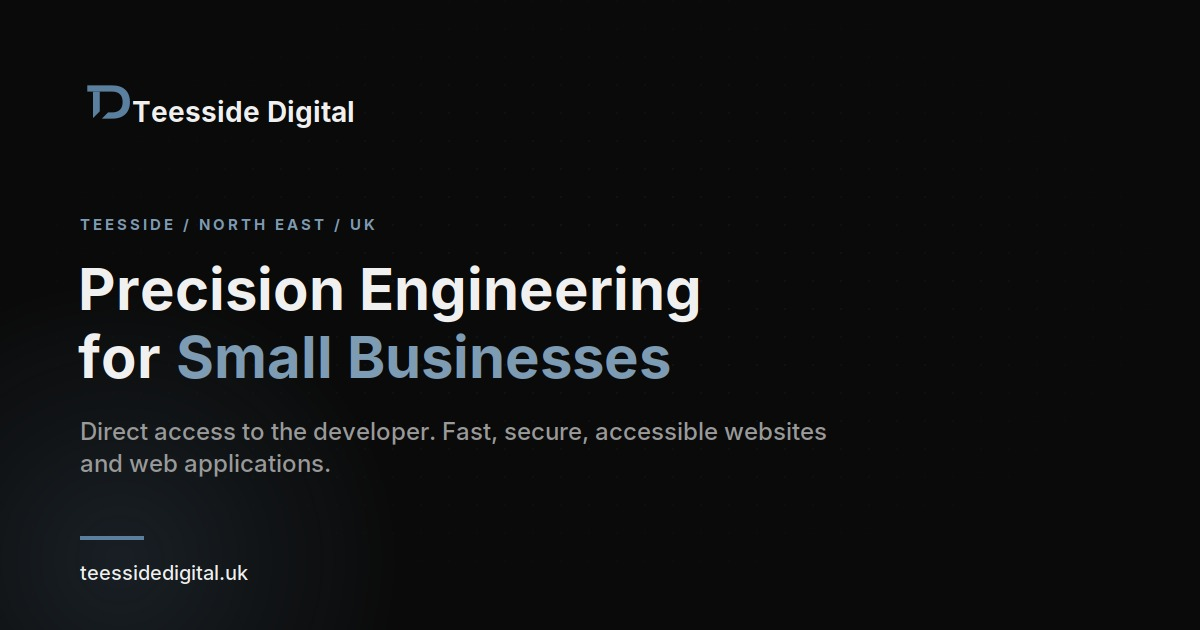
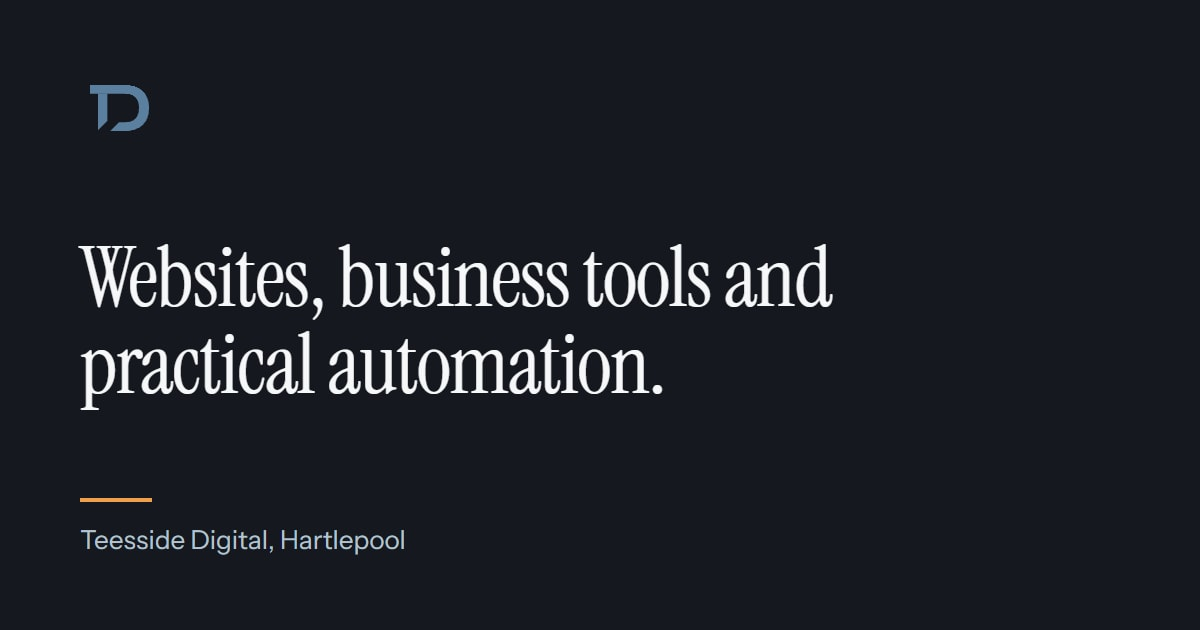
fix: consistent trailing slashes and SEO metadata

diff --git a/src/lib/seo.ts b/src/lib/seo.ts
@@ -1,232 +1,44 @@
 /**
- * SEO Helpers
- * Centralised functions for meta tags, structured data, and Open Graph generation
+ * SEO helpers: page title, canonical URL, social image and the one structured
+ * data block the site publishes.
  */
 
-import { SITE } from '@config/constants';
+import { SITE } from "@config/constants";
 
-export interface SEOProps {
-  title: string;
-  description: string;
-  image?: string;
-  imageAlt?: string;
-  canonical?: string;
-  article?: {
-    publishedTime?: string;
-    modifiedTime?: string;
-    author?: string;
-  };
-  robots?: string;
-}
-
-/**
- * Generate meta title (appends site name)
- */
+/** Append the site name, unless the title already carries it. */
 export function getPageTitle(title: string): string {
-  if (title.includes('|')) {
-    return title; // Already formatted
-  }
-  return title === SITE.title ? title : `${title} | ${SITE.title}`;
+  if (title.includes("|") || title.startsWith(SITE.title)) return title;
+  return `${title} | ${SITE.title}`;
 }
 
-/**
- * Generate canonical URL
- */
+/** Absolute URL for a site path. Paths end in a slash, as every route does. */
 export function getCanonicalUrl(path: string): string {
   return `${SITE.url}${path}`;
 }
 
-/**
- * Generate Open Graph image URL (full URL required)
- */
+/** Absolute URL of the social image. Every page shares the one image. */
 export function getOgImageUrl(image?: string): string {
-  if (!image) {
-    return `${SITE.url}/images/og-default.jpg`;
-  }
-  if (image.startsWith('http')) {
-    return image;
-  }
-  return `${SITE.url}${image}`;
+  if (!image) return `${SITE.url}/images/og-default.jpg`;
+  return image.startsWith("http") ? image : `${SITE.url}${image}`;
 }
 
 /**
- * Structured Data: Organisation (for homepage)
- * Used for Google Knowledge Panel and rich snippets
+ * Structured data: Organization. Facts only. Add a profile to sameAs once its
+ * address is confirmed.
  */
 export function getOrganisationSchema() {
   return {
-    '@context': 'https://schema.org',
-    '@type': 'Organization',
+    "@context": "https://schema.org",
+    "@type": "Organization",
     name: SITE.title,
-    url: SITE.url,
-    logo: `${SITE.url}/images/logo.svg`,
+    url: `${SITE.url}/`,
+    logo: `${SITE.url}/images/logo/teesside-digital-logo.svg`,
     description: SITE.description,
     founder: {
-      '@type': 'Person',
-      name: 'Dave',
+      "@type": "Person",
+      name: "Dave",
     },
-    contactPoint: {
-      '@type': 'ContactPoint',
-      contactType: 'Sales',
-      telephone: '', // Add if available
-      email: SITE.email,
-    },
-    sameAs: [
-      'https://github.com/TeessideDigital',
-      'https://linkedin.com/company/teessidedigital',
-    ],
-  };
-}
-
-/**
- * Structured Data: LocalBusiness (for local SEO)
- * Helps Google understand your service area
- */
-export function getLocalBusinessSchema() {
-  return {
-    '@context': 'https://schema.org',
-    '@type': 'LocalBusiness',
-    name: SITE.title,
-    image: `${SITE.url}/images/logo.svg`,
-    description: SITE.description,
-    url: SITE.url,
-    telephone: '', // Add if available
     email: SITE.email,
-    address: {
-      '@type': 'PostalAddress',
-      addressLocality: 'Hartlepool',
-      addressRegion: 'England',
-      addressCountry: 'GB',
-    },
-    areaServed: [
-      {
-        '@type': 'City',
-        name: 'Hartlepool',
-      },
-      {
-        '@type': 'City',
-        name: 'Middlesbrough',
-      },
-      {
-        '@type': 'City',
-        name: 'Stockton-on-Tees',
-      },
-      {
-        '@type': 'Region',
-        name: 'North East England',
-      },
-      {
-        '@type': 'Country',
-        name: 'United Kingdom',
-      },
-    ],
-    sameAs: [
-      'https://github.com/TeessideDigital',
-      'https://linkedin.com/company/teessidedigital',
-    ],
-  };
-}
-
-/**
- * Structured Data: Service
- * Used on service detail pages
- */
-export function getServiceSchema(service: {
-  name: string;
-  description: string;
-  image: string;
-  url: string;
-}) {
-  return {
-    '@context': 'https://schema.org',
-    '@type': 'Service',
-    name: service.name,
-    description: service.description,
-    image: getOgImageUrl(service.image),
-    provider: {
-      '@type': 'Organization',
-      name: SITE.title,
-      url: SITE.url,
-    },
-    url: getCanonicalUrl(service.url),
-    areaServed: {
-      '@type': 'GeoShape',
-      name: 'United Kingdom',
-    },
-  };
-}
-
-/**
- * Structured Data: BreadcrumbList
- * Improves navigation clarity and SEO
- */
-export function getBreadcrumbSchema(items: Array<{ name: string; url: string }>) {
-  return {
-    '@context': 'https://schema.org',
-    '@type': 'BreadcrumbList',
-    itemListElement: items.map((item, index) => ({
-      '@type': 'ListItem',
-      position: index + 1,
-      name: item.name,
-      item: getCanonicalUrl(item.url),
-    })),
-  };
-}
-
-/**
- * Structured Data: Article / BlogPosting
- * Used on case study pages
- */
-export function getArticleSchema(article: {
-  title: string;
-  description: string;
-  image?: string;
-  datePublished: string;
-  dateModified?: string;
-  author?: string;
-  url: string;
-}) {
-  return {
-    '@context': 'https://schema.org',
-    '@type': 'Article',
-    headline: article.title,
-    description: article.description,
-    image: getOgImageUrl(article.image),
-    datePublished: article.datePublished,
-    dateModified: article.dateModified || article.datePublished,
-    author: {
-      '@type': 'Organization',
-      name: article.author || SITE.title,
-    },
-    publisher: {
-      '@type': 'Organization',
-      name: SITE.title,
-      logo: {
-        '@type': 'ImageObject',
-        url: `${SITE.url}/images/logo.svg`,
-      },
-    },
-    url: getCanonicalUrl(article.url),
-  };
-}
-
-/**
- * Sanitise text for meta descriptions
- * Removes HTML, trims to 160 characters
- */
-export function sanitiseDescription(text: string, maxLength = 160): string {
-  const stripped = text.replace(/<[^>]*>/g, '').replace(/\s+/g, ' ').trim();
-  return stripped.length > maxLength ? `${stripped.substring(0, maxLength)}...` : stripped;
-}
-
-/**
- * Generate Twitter Card meta tags
- */
-export function getTwitterCard(props: SEOProps) {
-  return {
-    'twitter:card': 'summary_large_image',
-    'twitter:title': props.title,
-    'twitter:description': props.description,
-    'twitter:image': getOgImageUrl(props.image),
+    sameAs: ["https://github.com/TeessideDigital"],
   };
 }

diff --git a/tools/social-image/index.html b/tools/social-image/index.html
@@ -1,0 +1,74 @@
+<!doctype html>
+<html lang="en-GB">
+  <head>
+    <meta charset="utf-8" />
+    <title>Teesside Digital social image source</title>
+    <!-- Source for public/images/og-default.jpg. Open at 1200 x 630 and
+         screenshot the page; see README.md. Fonts and the mark are the site's
+         own files, so nothing is fetched from another origin. -->
+    <style>
+      @font-face {
+        font-family: "Instrument Sans";
+        src: url("../../public/fonts/instrument-sans/instrument-sans-variable.woff2")
+          format("woff2");
+        font-weight: 400 700;
+      }
+      @font-face {
+        font-family: "Instrument Serif";
+        src: url("../../public/fonts/instrument-serif/instrument-serif-regular.woff2")
+          format("woff2");
+        font-weight: 400;
+      }
+      html,
+      body {
+        margin: 0;
+      }
+      body {
+        box-sizing: border-box;
+        display: flex;
+        flex-direction: column;
+        justify-content: space-between;
+        inline-size: 1200px;
+        block-size: 630px;
+        padding: 72px 80px;
+        background: #15191f;
+        color: #f6f7f8;
+        font-family: "Instrument Sans", sans-serif;
+      }
+      img {
+        display: block;
+        inline-size: 72px;
+        block-size: 72px;
+      }
+      h1 {
+        margin: 0;
+        max-inline-size: 960px;
+        font-family: "Instrument Serif", Georgia, serif;
+        font-size: 84px;
+        font-weight: 400;
+        line-height: 1.04;
+        letter-spacing: -0.015em;
+      }
+      .rule {
+        inline-size: 72px;
+        block-size: 4px;
+        margin-block-end: 22px;
+        background: #f0a04b;
+      }
+      p {
+        margin: 0;
+        font-size: 26px;
+        line-height: 1.3;
+        color: #b4c3cf;
+      }
+    </style>
+  </head>
+  <body>
+    <img src="../../public/images/logo/teesside-digital-mark.svg" alt="" />
+    <h1>Websites, business tools and practical automation.</h1>
+    <div>
+      <div class="rule"></div>
+      <p>Teesside Digital, Hartlepool</p>
+    </div>
+  </body>
+</html>

diff --git a/src/config/constants.ts b/src/config/constants.ts
@@ -7,7 +7,7 @@ export const SITE = {
   title: "Teesside Digital",
   tagline: "Precision engineering for small businesses",
   description:
-    "Web development, AI automation, and cybersecurity consultancy for small and medium-sized businesses across the UK.",
+    "Websites, business tools and practical automation for small and owner-led businesses in Teesside and the North East.",
   url: import.meta.env.PROD
     ? "https://teessidedigital.uk"
     : "http://localhost:3000",

diff --git a/tools/social-image/README.md b/tools/social-image/README.md
@@ -1,0 +1,13 @@
+# Social image
+
+`index.html` is the source for `public/images/og-default.jpg`, the one image every page uses for `og:image` and `twitter:image`.
+
+It is 1200 x 630, in the V2.2 style: the page background, the TD mark, the serif headline, a short amber rule and "Teesside Digital, Hartlepool". It loads the site's own fonts and mark by relative path, so it must stay two folders below the repository root.
+
+## Rebuilding the image
+
+No project dependency is needed. Open `index.html` in a Chromium browser at a 1200 x 630 viewport and save a screenshot of the page as a JPEG, quality about 90, to `public/images/og-default.jpg`.
+
+The current file was made on 13 October 2026 with a headless Microsoft Edge screenshot, driven by a script kept outside the repository.
+
+This folder is not part of the built site.
